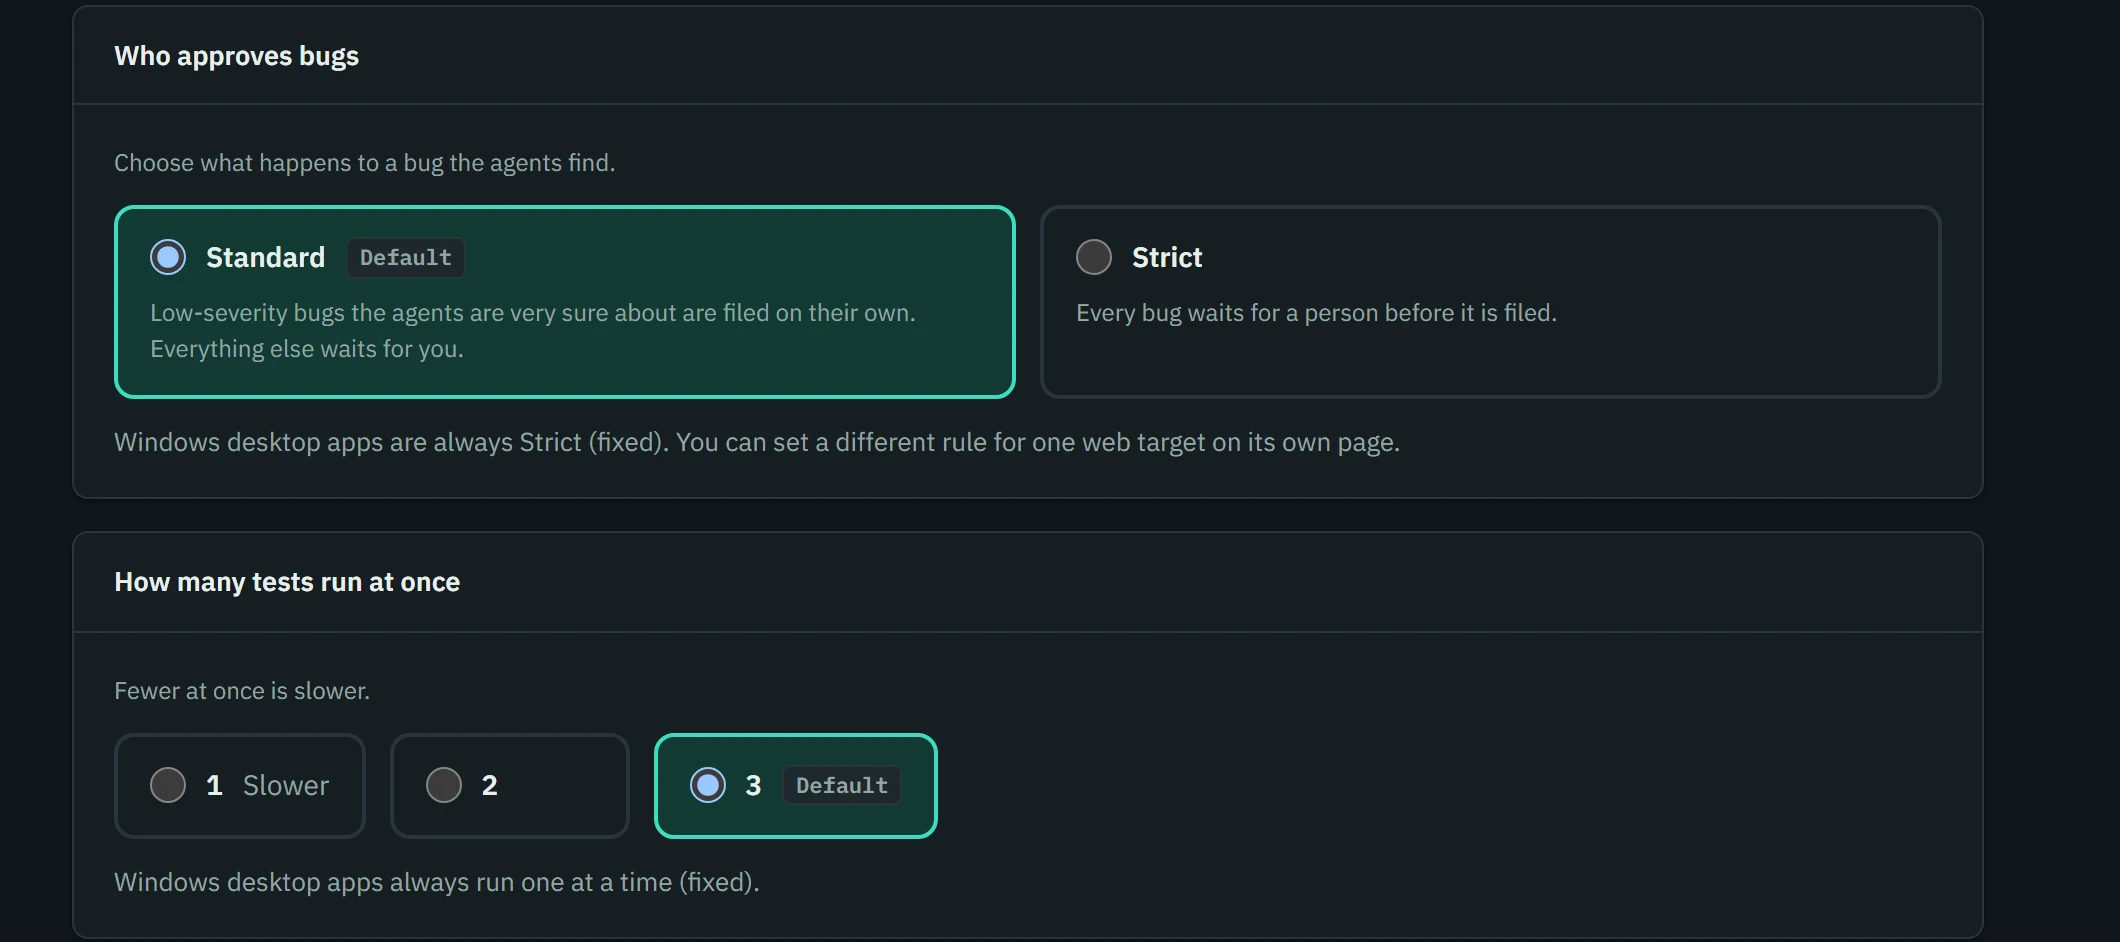
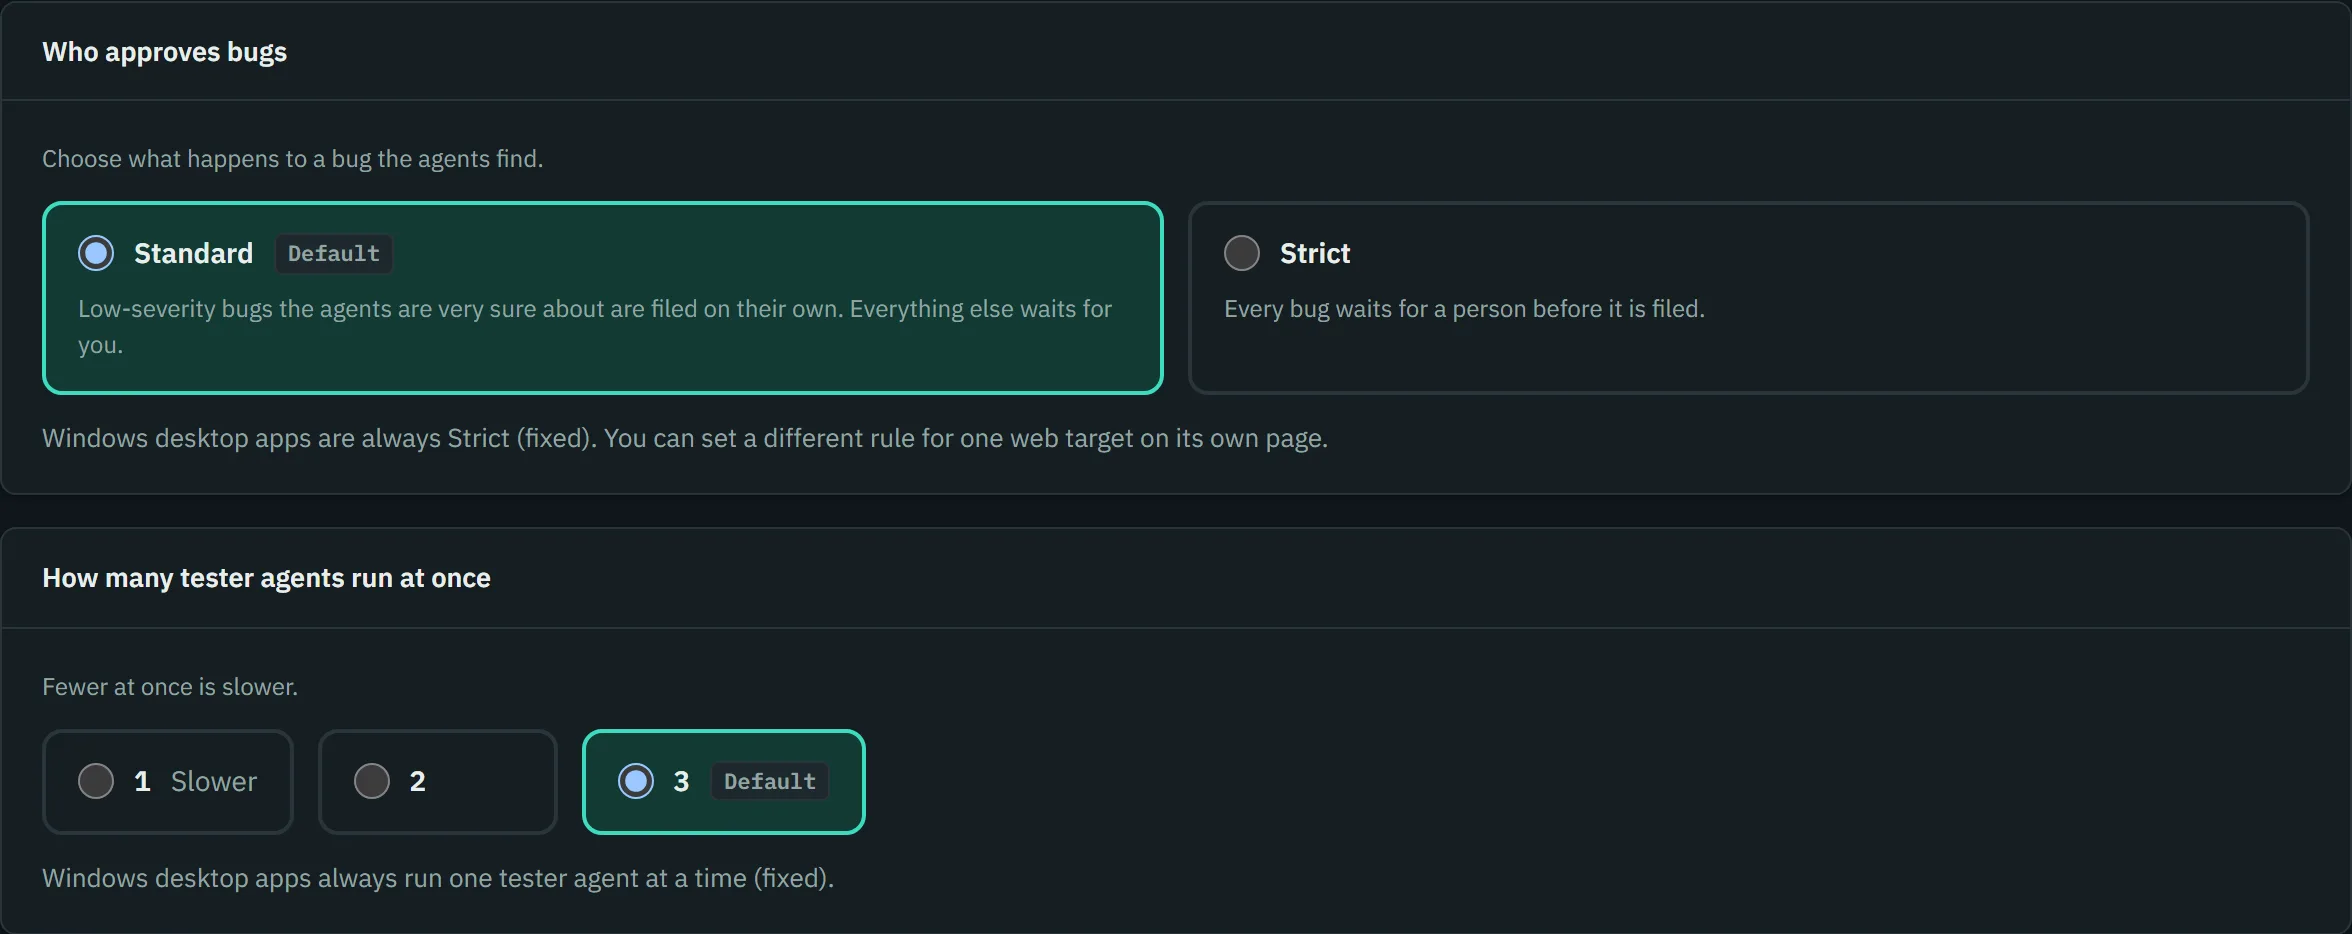
Run rules row: tester agents wording, up to N, new screenshot

diff --git a/index.html b/index.html
@@ -521,7 +521,7 @@
         </li>
         <li>
           <h4>Scale the team up or down</h4>
-          <p>Choose 1, 2 or 3 testers working at once (the default is 3). The coordinator is told to stay within that number; the other agents are not limited by it.</p>
+          <p>Choose how many tester agents run at once: up to 1, 2 or 3 (the default is up to 3). The coordinator is told to stay within that number; the other agents are not limited by it.</p>
         </li>
         <li>
           <h4>Need another role?</h4>
@@ -553,10 +553,10 @@
       <article class="qa-card qa-row qa-row--flip">
         <figure class="qa-fig">
           <a class="qa-frame" href="assets/qa-cloud/qa-run-rules-dark.webp" data-lightbox target="_blank" rel="noopener" aria-label="Enlarge the Run rules screenshot">
-            <img src="assets/qa-cloud/qa-run-rules-dark.webp" width="2120" height="942" loading="lazy" alt="The Run rules page: choose Standard or Strict for who approves bugs, and how many tests run at once, from 1 to 3.">
+            <img src="assets/qa-cloud/qa-run-rules-dark.webp" width="2352" height="934" loading="lazy" alt="The Run rules page: choose Standard or Strict for who approves bugs, and how many tester agents run at once, up to 1, 2 or 3.">
           </a>
           <h3>Run rules</h3>
-          <figcaption>Who approves bugs, and how many tests run at once. Windows desktop apps are always Strict and run one at a time.</figcaption>
+          <figcaption>Who approves bugs, and how many tester agents run at once (up to 3 by default). Windows desktop apps are always Strict and run one tester agent at a time.</figcaption>
         </figure>
       </article>
       <article class="qa-card qa-row">
